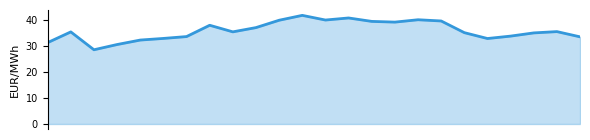
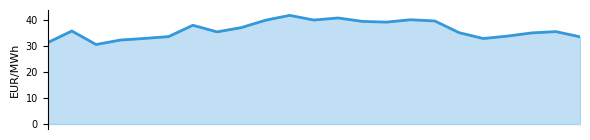
Update Gasspeicher-Report 2026-02-10 07:53

Changed region(s): [[0.0915, 0.0857, 0.9153, 0.3714]]

diff --git a/index.html b/index.html
@@ -3,7 +3,7 @@
 <head>
 <meta charset="UTF-8">
 <meta name="viewport" content="width=device-width, initial-scale=1.0">
-<title>Energienotfall.de - Energie braucht einen Plan B | Gasspeicher 27.0% | 09.02.2026</title>
+<title>Energienotfall.de - Energie braucht einen Plan B | Gasspeicher 27.0% | 10.02.2026</title>
 <!-- SEO Meta Tags -->
 <meta name="description" content="Energienotfall.de: Energie braucht einen Plan B. Gasspeicher 27.0%, 5 Energieträger im Risikoprofil, Diversifikations-Effekt berechnet. Wer nur auf eine Quelle setzt, riskiert Versorgung und Geldbeutel.">
 <meta name="keywords" content="Energie Plan B, Versorgungssicherheit, Energieresilienz, Gasspeicher Deutschland, Energieträger Vergleich, Diversifikation, Heizung Ausfall, Gasversorgung, Risikoprofil, Pellets, Holz, Strom, Wärmepumpe">
@@ -12,17 +12,17 @@
 <link rel="canonical" href="https://www.energienotfall.de/">
 <link rel="alternate" hreflang="de" href="https://www.energienotfall.de/">
 <link rel="alternate" hreflang="x-default" href="https://www.energienotfall.de/">
-<link rel="preload" as="image" type="image/webp" href="Gasspeicher_Vorhersage_2026-02-09.webp">
+<link rel="preload" as="image" type="image/webp" href="Gasspeicher_Vorhersage_2026-02-10.webp">
 <!-- Open Graph (Facebook, LinkedIn) -->
 <meta property="og:type" content="website">
 <meta property="og:url" content="https://www.energienotfall.de/">
-<meta property="og:title" content="Energienotfall.de - Energie braucht einen Plan B | 09.02.2026">
+<meta property="og:title" content="Energienotfall.de - Energie braucht einen Plan B | 10.02.2026">
 <meta property="og:description" content="Energie braucht einen Plan B: Gasspeicher 27.0%, 5 Energieträger im Risikoprofil – Kann ich heizen, meinen Betrieb sichern, meine Produktion aufrechterhalten, wenn ein Energieträger ausfällt?">
 <meta property="og:locale" content="de_DE">
 <meta property="og:site_name" content="Energienotfall.de">
 <!-- Twitter Card -->
 <meta name="twitter:card" content="summary_large_image">
-<meta name="twitter:title" content="Energienotfall.de - Energie braucht einen Plan B | 09.02.2026">
+<meta name="twitter:title" content="Energienotfall.de - Energie braucht einen Plan B | 10.02.2026">
 <meta name="twitter:description" content="Energie braucht einen Plan B: Gasspeicher 27.0%. Risikoprofil, Diversifikations-Effekt und Plan-B-Check für Haus, Betrieb und Produktion.">
 <!-- JSON-LD Structured Data -->
 <script type="application/ld+json">
@@ -199,11 +199,11 @@ Kältewelle: +50% Verbrauch | Mild: -30% Verbrauch
 <div class="label">Gas (EUR/MWh)</div>
 </div>
 <div class="spark-item">
-<div class="value">143.1</div>
+<div class="value">112.9</div>
 <div class="label">Strom (EUR/MWh)</div>
 </div>
 <div class="spark-item">
-<div class="value spark-profitable">+82.2</div>
+<div class="value spark-profitable">+52.0</div>
 <div class="label">Spread (EUR/MWh)</div>
 </div>
 </div>
@@ -248,8 +248,8 @@ Quellen: Gas (TTF) | Strom (EPEX Spot (energy-charts.info))
 <div class="chart-container">
 <h2 style="margin-bottom: 1rem;">📈 Vorhersage-Diagramm</h2>
 <picture>
-<source srcset="Gasspeicher_Vorhersage_2026-02-09.webp" type="image/webp">
-<img src="Gasspeicher_Vorhersage_2026-02-09.png" alt="Gasspeicher Vorhersage bis 09.04.2026" loading="lazy" width="1920" height="960" />
+<source srcset="Gasspeicher_Vorhersage_2026-02-10.webp" type="image/webp">
+<img src="Gasspeicher_Vorhersage_2026-02-10.png" alt="Gasspeicher Vorhersage bis 09.04.2026" loading="lazy" width="1920" height="960" />
 </picture>
 <div style="margin-top: 0.75rem; font-size: 0.8rem; color: #666;">
 Vorhersage: 60 Tage | Tiefpunkt: 7.1% am 09.04.2026
@@ -705,7 +705,7 @@ AUSFALL<br>RISIKO
 <div class="heating-row">
 <div class="heating-label">Holz (Buche)</div>
 <div class="heating-bar-bg">
-<div class="heating-bar" style="width:49%;background:#8B4513;">
+<div class="heating-bar" style="width:54%;background:#8B4513;">
 <span>4.8 ct</span>
 </div>
 </div>
@@ -714,7 +714,7 @@ AUSFALL<br>RISIKO
 <div class="heating-row">
 <div class="heating-label">Pellets</div>
 <div class="heating-bar-bg">
-<div class="heating-bar" style="width:55%;background:#D2691E;">
+<div class="heating-bar" style="width:61%;background:#D2691E;">
 <span>5.4 ct</span>
 </div>
 </div>
@@ -723,7 +723,7 @@ AUSFALL<br>RISIKO
 <div class="heating-row">
 <div class="heating-label">Erdgas</div>
 <div class="heating-bar-bg">
-<div class="heating-bar" style="width:85%;background:#3498db;">
+<div class="heating-bar" style="width:93%;background:#3498db;">
 <span>8.3 ct</span>
 </div>
 </div>
@@ -732,7 +732,7 @@ AUSFALL<br>RISIKO
 <div class="heating-row">
 <div class="heating-label">Heizöl</div>
 <div class="heating-bar-bg">
-<div class="heating-bar" style="width:87%;background:#7f8c8d;">
+<div class="heating-bar" style="width:96%;background:#7f8c8d;">
 <span>8.5 ct</span>
 </div>
 </div>
@@ -742,7 +742,7 @@ AUSFALL<br>RISIKO
 <div class="heating-label">Strom (WP)</div>
 <div class="heating-bar-bg">
 <div class="heating-bar" style="width:100%;background:#27ae60;">
-<span>9.8 ct</span>
+<span>8.9 ct</span>
 </div>
 </div>
 <div class="heating-source">EPEX live (COP 3.5) <span style="background:#27ae60;color:#fff;font-size:0.6rem;padding:1px 4px;border-radius:3px;margin-left:4px;">LIVE</span></div>
